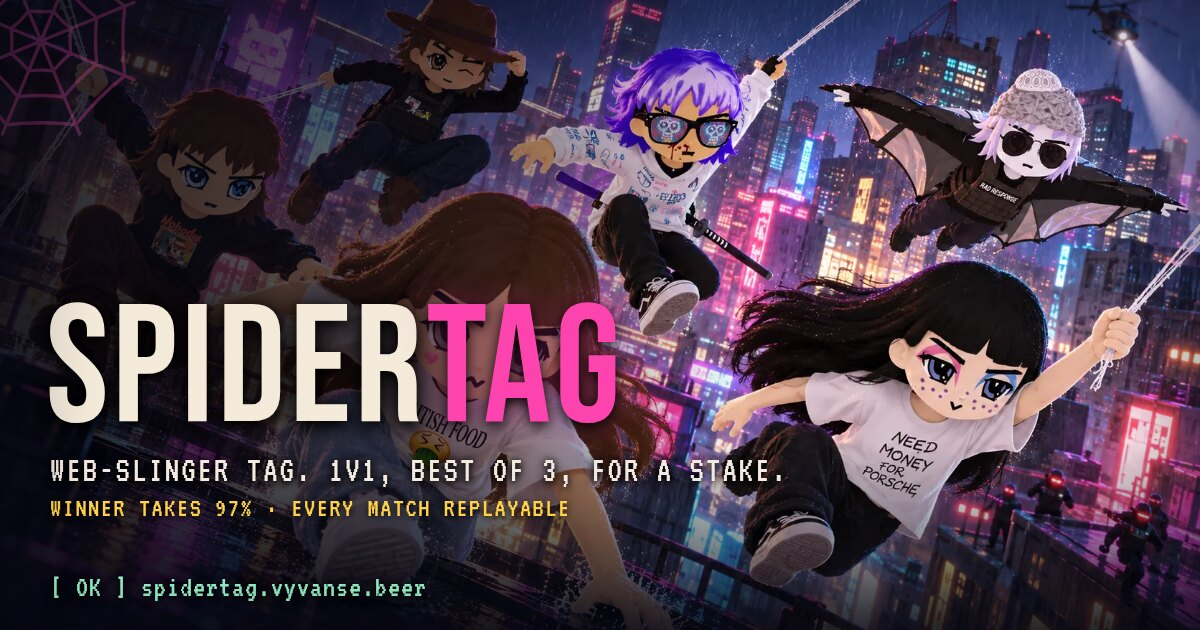
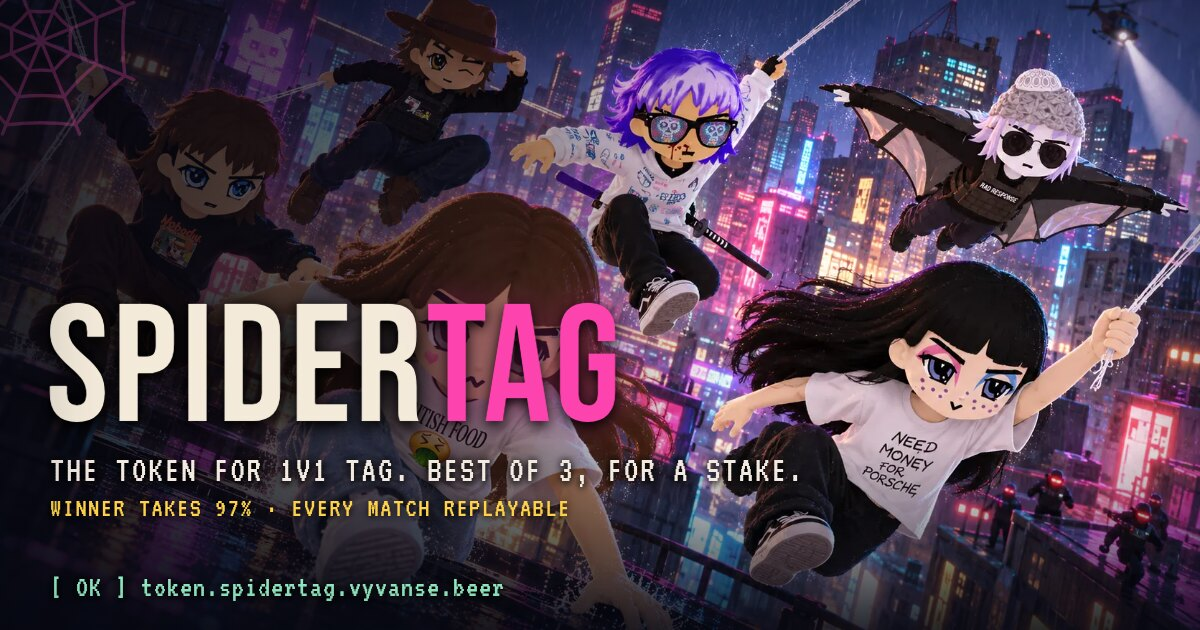
token.spidertag.vyvanse.beer: the token page for SPIDERTAG
The game takes the SPIDERTAG name and spidertag.vyvanse.beer, so this page
moves to token.spidertag.vyvanse.beer (canonical, og:url and the share card).
It reads as the token for SPIDERTAG, the Robinhood Chain game; the play and
wager links point at the game, spidertag.vyvanse.beer and its ?wager page.

Changed region(s): [[0.0308, 0.7238, 0.6475, 0.7841], [0.1233, 0.9048, 0.4317, 0.9651], [0.4933, 0.5429, 0.5242, 0.573]]

diff --git a/index.html b/index.html
@@ -3,24 +3,24 @@
   <head>
     <meta charset="utf-8" />
     <meta name="viewport" content="width=device-width, initial-scale=1, viewport-fit=cover" />
-    <title>SPIDERTAG · web-slinger tag for stakes</title>
-    <meta name="description" content="SPIDERTAG is the token for SPIDER-TAG wager matches in RadRun: web-slinger tag between Radbros, one-on-one, best of 3. A pons launch on Robinhood Chain." />
+    <title>$SPIDERTAG · the token for SPIDERTAG, the Robinhood Chain game</title>
+    <meta name="description" content="$SPIDERTAG is the token for SPIDERTAG, the web-slinger tag game on Robinhood Chain: stake it on 1v1 wager matches, best of 3. A pons launch on Robinhood Chain." />
     <meta name="theme-color" content="#090b16" />
-    <link rel="canonical" href="https://spidertag.vyvanse.beer/" />
+    <link rel="canonical" href="https://token.spidertag.vyvanse.beer/" />
     <link rel="icon" href="/favicon.svg" type="image/svg+xml" />
     <link rel="apple-touch-icon" href="/apple-touch-icon.png" />
     <meta property="og:type" content="website" />
     <meta property="og:site_name" content="SPIDERTAG" />
-    <meta property="og:title" content="SPIDERTAG · web-slinger tag for stakes" />
-    <meta property="og:description" content="One-on-one SPIDER-TAG in RadRun, best of 3, for a stake. Winner takes 97%. Every match replayable." />
-    <meta property="og:url" content="https://spidertag.vyvanse.beer/" />
-    <meta property="og:image" content="https://spidertag.vyvanse.beer/og.jpg" />
+    <meta property="og:title" content="$SPIDERTAG · the token for SPIDERTAG" />
+    <meta property="og:description" content="Stake it on 1v1 TAG in SPIDERTAG, the Robinhood Chain game. Best of 3, winner takes 97%. Every match replayable." />
+    <meta property="og:url" content="https://token.spidertag.vyvanse.beer/" />
+    <meta property="og:image" content="https://token.spidertag.vyvanse.beer/og.jpg" />
     <meta property="og:image:width" content="1200" />
     <meta property="og:image:height" content="630" />
     <meta property="og:image:alt" content="SPIDERTAG: six Radbros web-swinging over a rainy neon city at dusk." />
     <meta name="twitter:card" content="summary_large_image" />
     <meta name="twitter:site" content="@dexedrne" />
-    <meta name="twitter:image" content="https://spidertag.vyvanse.beer/og.jpg" />
+    <meta name="twitter:image" content="https://token.spidertag.vyvanse.beer/og.jpg" />
     <link rel="preload" as="image" href="/img/key-art-1672.webp" imagesrcset="/img/key-art-960.webp 960w, /img/key-art-1672.webp 1672w" imagesizes="100vw" fetchpriority="high" />
     <script type="module" src="/src/main.js"></script>
   </head>
@@ -42,14 +42,14 @@
       <div class="hero-shade" aria-hidden="true"></div>
 
       <nav class="topbar" aria-label="Site">
-        <a class="mini" href="/" aria-label="SPIDERTAG home"><span class="w1">SPIDER</span><span class="w2">TAG</span></a>
+        <a class="mini" href="/" aria-label="SPIDERTAG token home"><span class="w1">SPIDER</span><span class="w2">TAG</span></a>
         <a class="home" href="https://vyvanse.beer">vyvanse.beer</a>
       </nav>
 
       <div class="hero-copy">
         <h1 class="wordmark"><span class="w1">SPIDER</span><span class="w2">TAG</span></h1>
         <p class="tagline">Web-slinger tag between Radbros. One-on-one, best of 3, for a stake.</p>
-        <p class="lede">The token for SPIDER-TAG wager matches in RadRun, on <!-- chain -->.</p>
+        <p class="lede">The token for SPIDERTAG, the <!-- chain --> game: what you stake on its 1v1 wager matches.</p>
         <div class="cta"><!-- play --></div>
         <p class="status"><!-- status --></p>
       </div>
@@ -69,7 +69,7 @@
     <main id="main">
       <section class="block" id="game" aria-labelledby="game-h">
         <p class="kicker">01 · the game</p>
-        <h2 id="game-h">What SPIDER-TAG is</h2>
+        <h2 id="game-h">What SPIDERTAG is</h2>
         <div class="cols">
           <div class="prose">
             <p>One of you holds the bag. The other one runs.</p>
@@ -83,7 +83,7 @@
               the holder's reach and speed grow until it gets passed, so nobody can start with it and just run.
             </p>
             <p>
-              Everything RadRun has works in a match: swing, zip, wall run, ledge grab, vault, slide, charge leap, dive. Wager
+              Every move in the game works in a match: swing, zip, wall run, ledge grab, vault, slide, charge leap, dive. Wager
               matches are 1v1 and best 2 of 3.
             </p>
           </div>
@@ -199,7 +199,7 @@
         <p class="kicker">04 · the token</p>
         <h2 id="token-h"><!-- symbol --></h2>
         <p class="prose-line">
-          It's what you stake in SPIDER-TAG wager matches. That's the whole use. It launches on pons, on <!-- chain -->.
+          It's what you stake in SPIDERTAG wager matches. That's the whole use. It launches on pons, on <!-- chain -->.
         </p>
         <div class="token-grid">
           <dl class="spec">
@@ -246,8 +246,8 @@
         <h2 id="faq-h">FAQ</h2>
         <div class="faq">
           <details>
-            <summary>Do I need the token to play RadRun?</summary>
-            <p>No. RadRun and SPIDER-TAG, against bots or a friend online, are free. The token is only for wager matches.</p>
+            <summary>Do I need the token to play SPIDERTAG?</summary>
+            <p>No. SPIDERTAG is free to play: the chase, and TAG against bots or a friend online. The token is only for wager matches.</p>
           </details>
           <details>
             <summary>What's live right now?</summary>

diff --git a/src/render.js b/src/render.js
@@ -12,7 +12,7 @@ const launched = () => Boolean(token.address.trim());
 const isMainnet = () => wager.stage === 'mainnet';
 
 export function renderPlay() {
-  const game = `<a class="btn btn-main" href="${esc(wager.game)}">Play RadRun</a>`;
+  const game = `<a class="btn btn-main" href="${esc(wager.game)}">Play SPIDERTAG</a>`;
   if (!wager.showLink) return game;
   const label = isMainnet() ? 'Play for SPIDERTAG' : 'Wager beta <span class="btn-tag">testnet</span>';
   return `${game}<a class="btn btn-alt" href="${esc(wager.url)}">${label}</a>`;
@@ -46,9 +46,9 @@ export function renderTokenLinks() {
 export function renderFooterLinks() {
   return [
     ext(site.home, 'vyvanse.beer'),
-    ext(wager.game, 'RadRun'),
+    ext(wager.game, 'SPIDERTAG'),
     ext(site.source, 'this site on GitHub'),
-    ext(site.gameSource, 'RadRun on GitHub'),
+    ext(site.gameSource, 'the game on GitHub'),
     ext(site.x, 'X'),
   ].join('<span class="dot" aria-hidden="true">·</span>');
 }

diff --git a/src/token.config.js b/src/token.config.js
@@ -31,14 +31,15 @@ export const token = {
 export const wager = {
   // 'testnet' = the beta with test tokens; 'mainnet' = the vault holds the real coin.
   stage: 'testnet',
-  game: 'https://radrun.vyvanse.beer',
-  url: 'https://radrun.vyvanse.beer/?wager',
+  // The game (its /token path redirects to this page) and its wager beta, the unlisted ?wager page.
+  game: 'https://spidertag.vyvanse.beer',
+  url: 'https://spidertag.vyvanse.beer/?wager',
   // false hides the wager link (the game link stays).
   showLink: true,
 };
 
 export const site = {
-  url: 'https://spidertag.vyvanse.beer',
+  url: 'https://token.spidertag.vyvanse.beer',
   home: 'https://vyvanse.beer',
   source: 'https://github.com/dexedrne/spidertag',
   gameSource: 'https://github.com/dexedrne/radrun',

diff --git a/src/style.css b/src/style.css
@@ -1,5 +1,5 @@
-/* spidertag.vyvanse.beer: RadRun's look. Dusk over a rain-wet neon city, the six characters
-   swinging through it, and the wordmark set like the RadRun share cards (cream + hot pink in a
+/* token.spidertag.vyvanse.beer: the game's look. Dusk over a rain-wet neon city, the six characters
+   swinging through it, and the wordmark set like the game's share cards (cream + hot pink in a
    tall condensed face, a mint terminal line under it).
 
    Type: Bebas Neue for the wordmark and titles, VT323 (bitmap terminal) for labels and status

diff --git a/og/og.html b/og/og.html
@@ -16,8 +16,8 @@
 <div class="shade"></div>
 <img class="web" src="../public/web.svg" alt="">
 <div class="logo"><span class="a">SPIDER</span><span class="b">TAG</span></div>
-<div class="tag">WEB-SLINGER TAG. 1V1, BEST OF 3, FOR A STAKE.</div>
+<div class="tag">THE TOKEN FOR 1V1 TAG. BEST OF 3, FOR A STAKE.</div>
 <div class="sub">WINNER TAKES 97% · EVERY MATCH REPLAYABLE</div>
-<div class="status">[ OK ] spidertag.vyvanse.beer</div>
+<div class="status">[ OK ] token.spidertag.vyvanse.beer</div>
 <div class="vig"></div>
 </div></body></html>

diff --git a/README.md b/README.md
@@ -1,7 +1,8 @@
-# spidertag.vyvanse.beer
+# token.spidertag.vyvanse.beer
 
-The landing page for **SPIDERTAG**, the token for SPIDER-TAG wager matches in
-[RadRun](https://radrun.vyvanse.beer): web-slinger tag between Radbros, one-on-one, best of 3, for a stake.
+The page for **$SPIDERTAG**, the token for [SPIDERTAG](https://spidertag.vyvanse.beer), the Robinhood Chain game:
+web-slinger tag between Radbros, and its 1v1 wager matches, best of 3, for a stake. The game lives at
+spidertag.vyvanse.beer (its `/token` path redirects here); this page lives at https://token.spidertag.vyvanse.beer.
 
 A small static Vite site. No framework, no trackers, no cookies. The only thing it fetches from another
 origin is the DexScreener price, and only once a contract address is set.
@@ -30,7 +31,7 @@ shipped HTML has every link before any JS runs. `src/main.js` only does the copy
 
 ## Art
 
-The key art is RadRun's (Radbros #652, #723, #4764 and #2564, Retardios #555 and #85). The share card is
+The key art is the game's (Radbros #652, #723, #4764 and #2564, Retardios #555 and #85). The share card is
 `og/og.html` rendered with headless Chromium at 1200x630 into `public/og.jpg`.
 
 ## Licence
